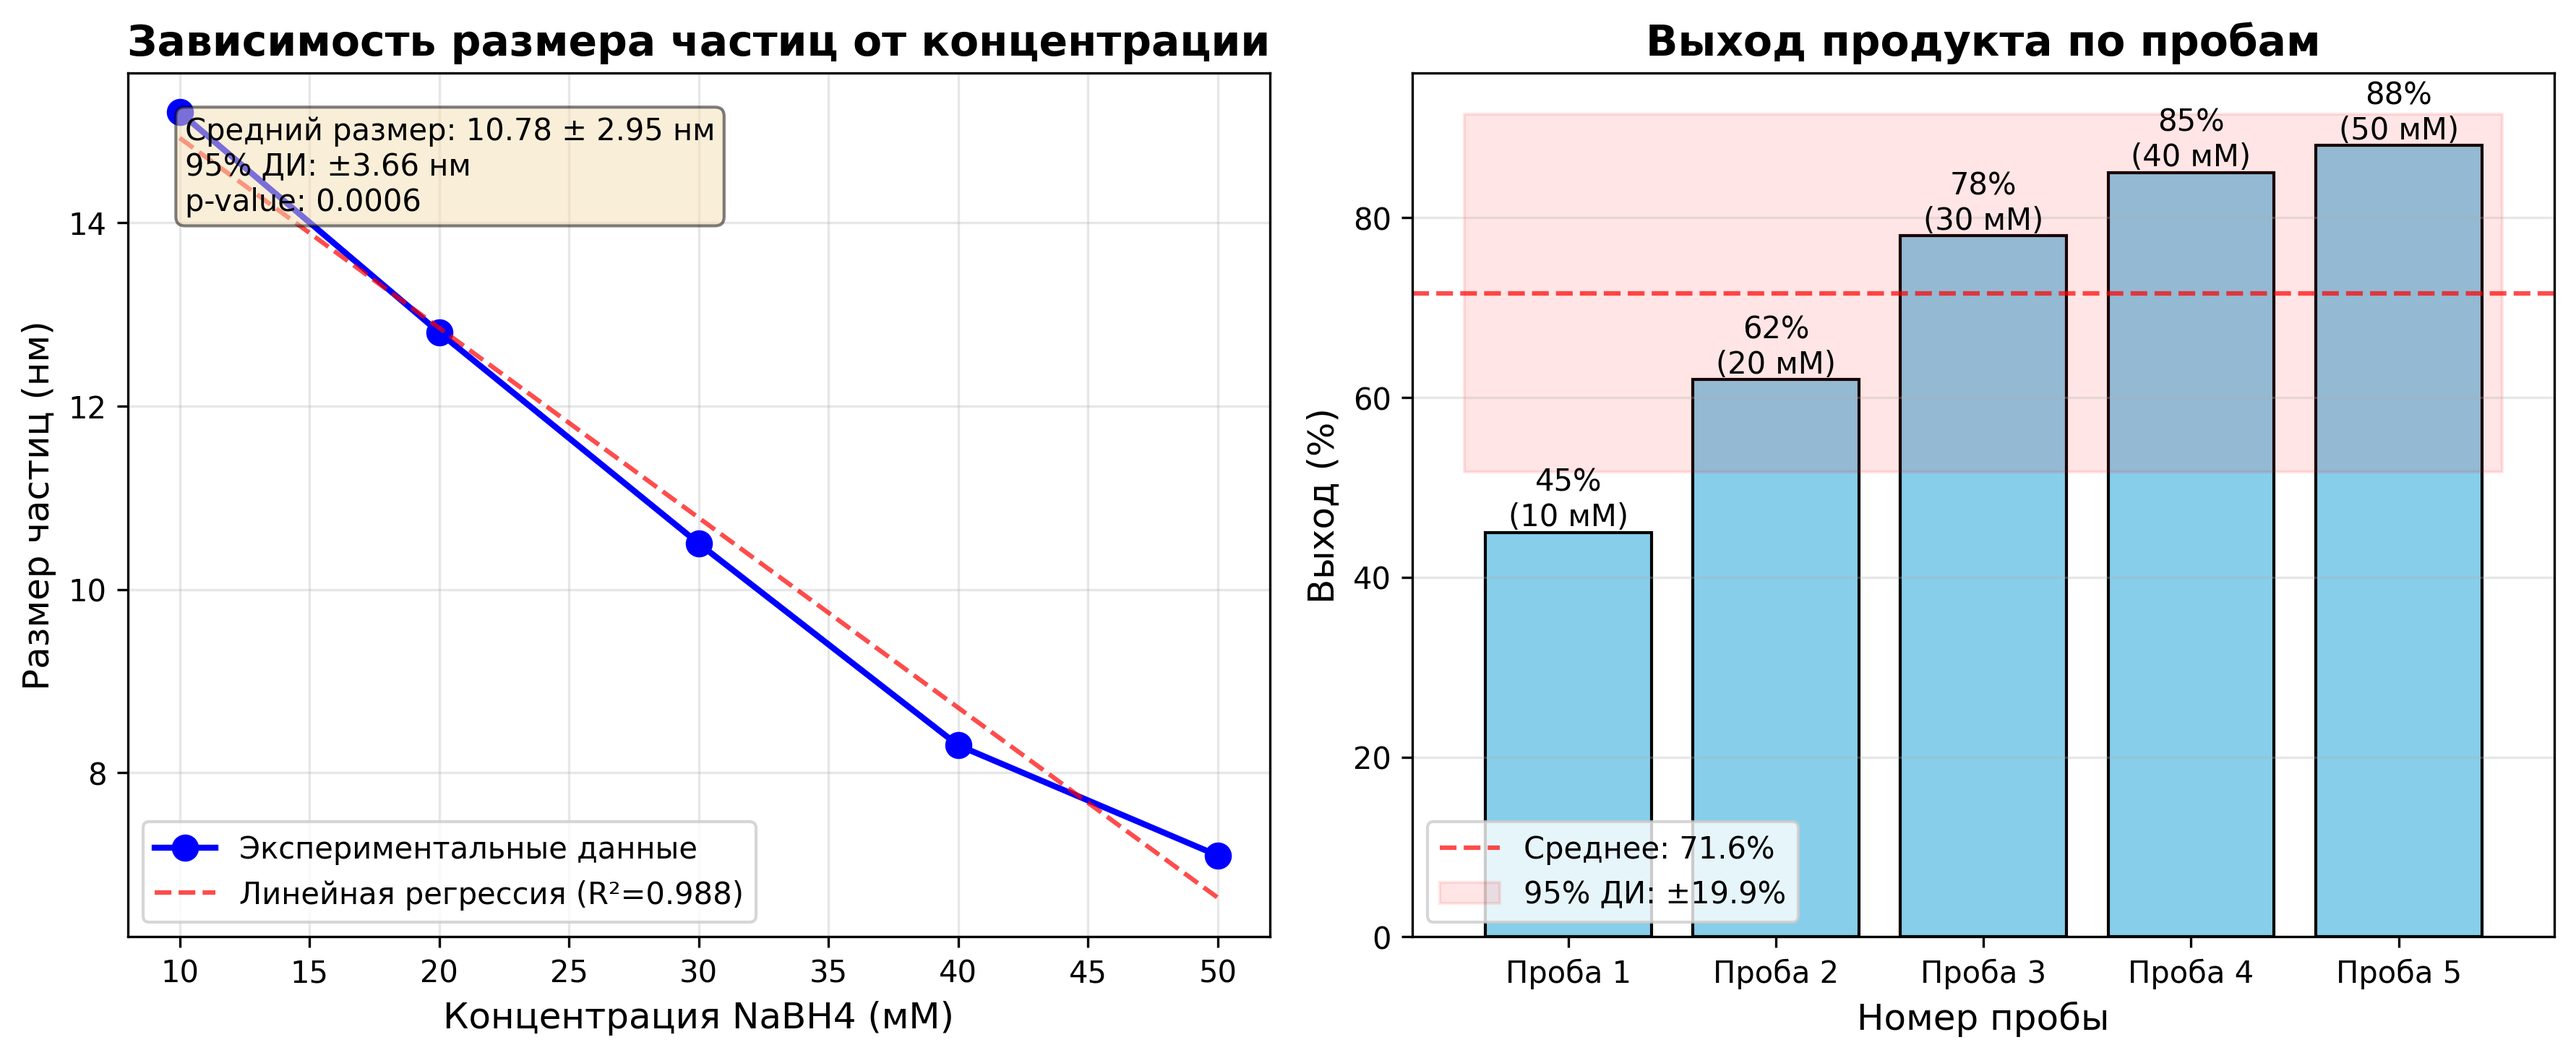
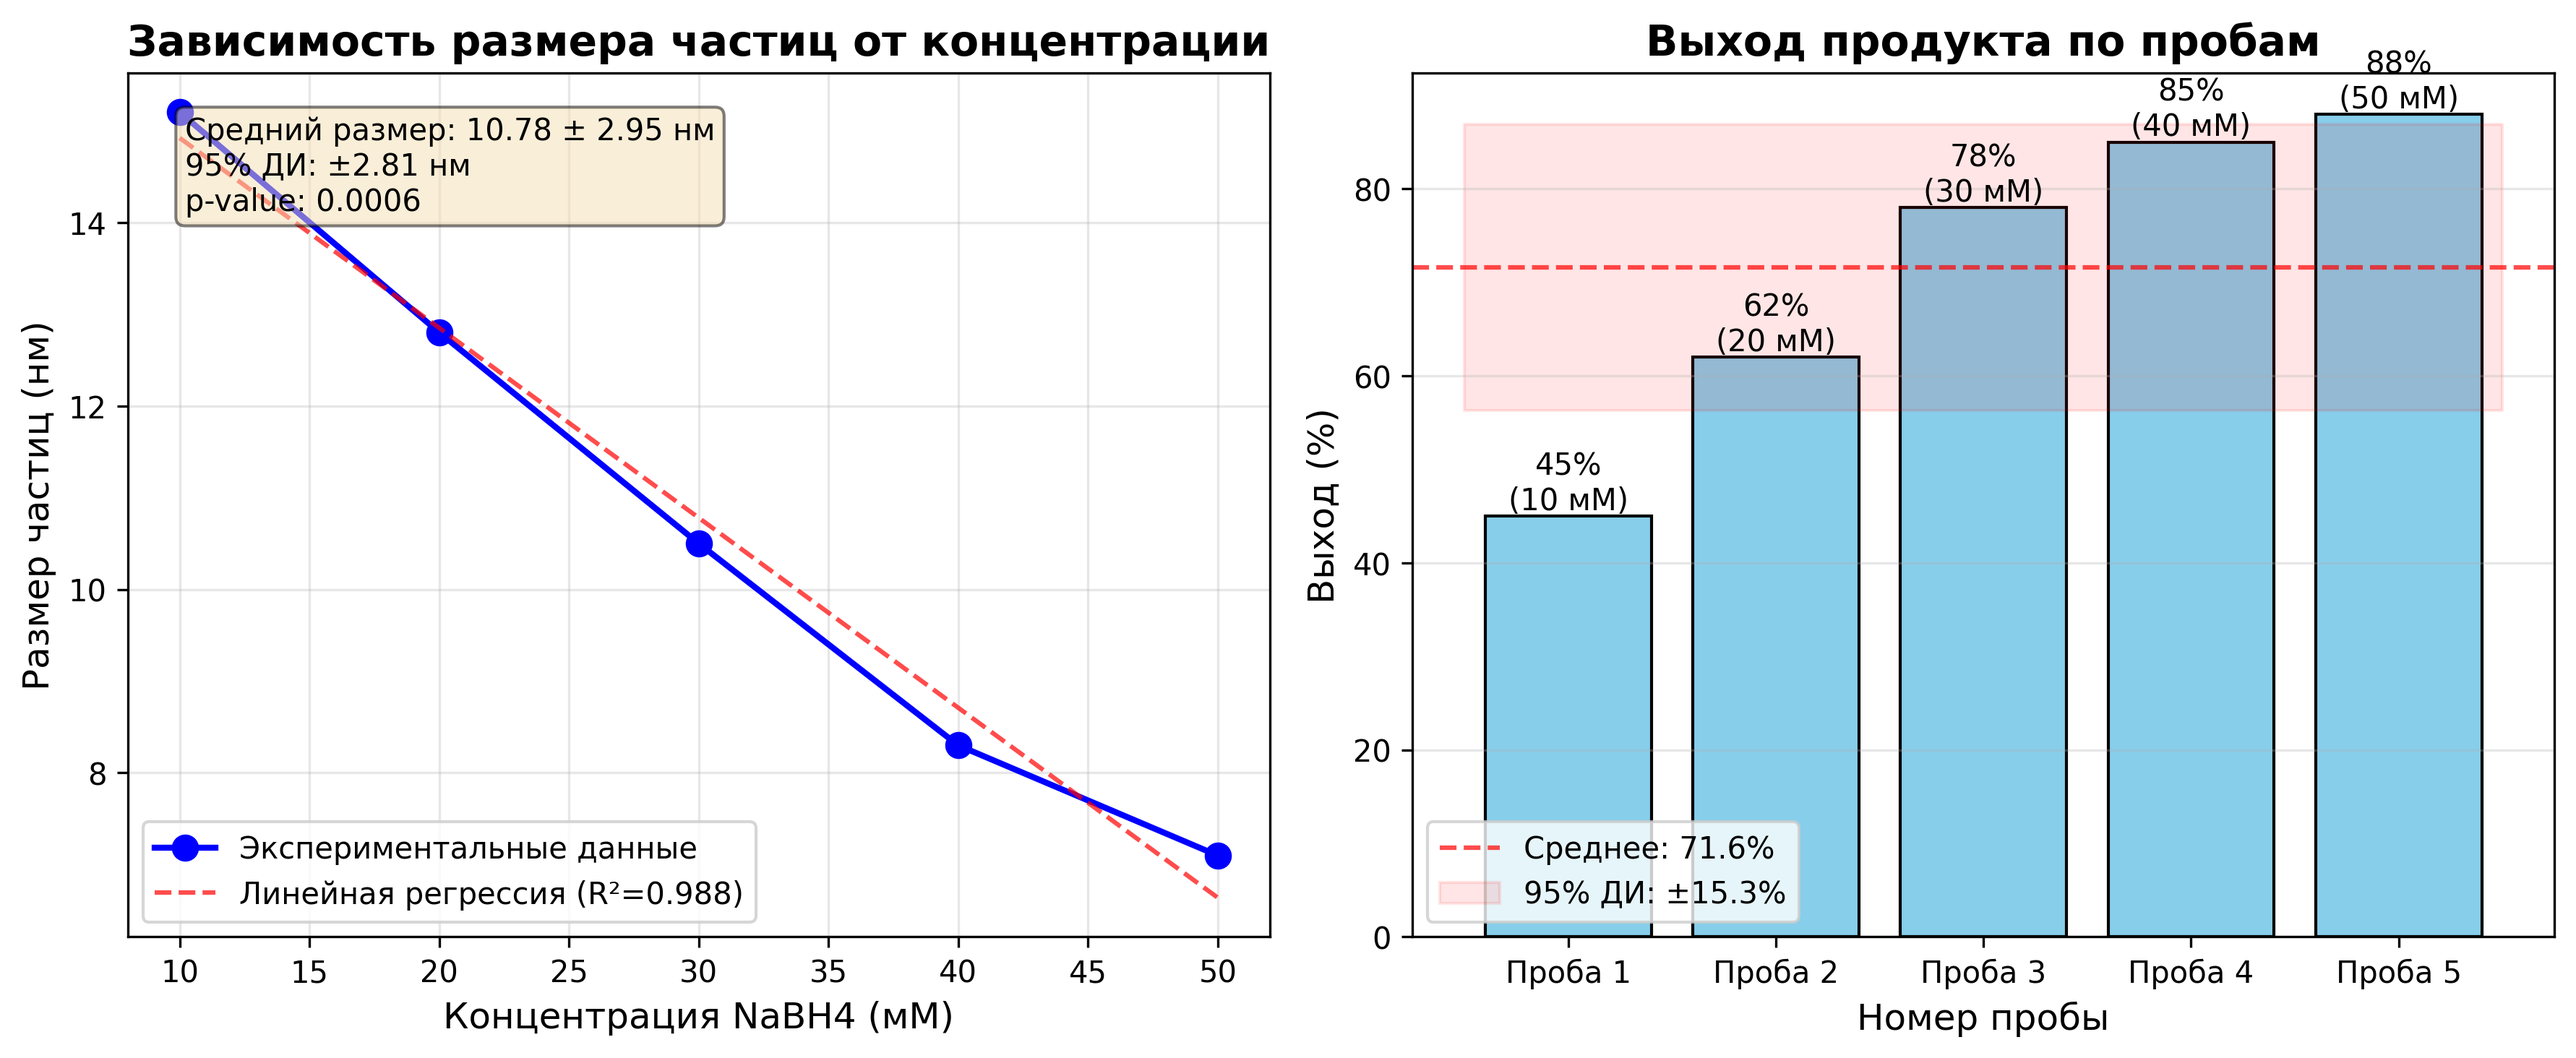
extend lab analysis to OR and change output format from txt -> md

diff --git a/3_8_advanced_prompting/labdataanalyzer_3.8.1.py b/3_8_advanced_prompting/labdataanalyzer_3.8.1.py
@@ -8,6 +8,7 @@ import matplotlib.pyplot as plt
 import numpy as np
 from scipy import stats
 import requests
+from decouple import config
 
 class LabDataAnalyzer:
     """Анализ лабораторных данных с визуализацией"""
@@ -40,7 +41,7 @@ class LabDataAnalyzer:
         """
         return raw_data
     
-    def query_llm(self, prompt):
+    def query_llm(self, prompt, conversation_history=None):
         """Запрос к LLM"""
         if self.llm_api == "ollama":
             response = requests.post(
@@ -49,8 +50,49 @@ class LabDataAnalyzer:
             )
             return response.json().get("response", "")
         else:
-            # Для простоты демо возвращаем заглушку
-            return "Ответ LLM: Данные проанализированы успешно."
+            OPENROUTER_KEY = config('OPENROUTER_API_KEY')
+            OPENROUTER_URL = "https://openrouter.ai/api/v1/chat/completions"
+            OPENROUTER_MODEL = "qwen/qwen3-coder-next"
+
+            """Запрос к OpenRouter с поддержкой контекста"""
+            try:
+                headers = {
+                    "Authorization": f"Bearer {OPENROUTER_KEY}",
+                    "Content-Type": "application/json"
+                }
+                
+                # Формируем историю сообщений
+                messages = []
+                if conversation_history:
+                    for i, msg in enumerate(conversation_history[-5:]):  # Последние 5
+                        role = "user" if i % 2 == 0 else "assistant"
+                        messages.append({"role": role, "content": msg})
+                
+                messages.append({"role": "user", "content": prompt})
+                
+                data = {
+                    "model": OPENROUTER_MODEL,
+                    "messages": messages,
+                    "temperature": 0.3
+                }
+                
+                response = requests.post(
+                    OPENROUTER_URL,
+                    headers=headers,
+                    json=data,
+                    timeout=60
+                )
+                
+                if response.status_code == 200:
+                    print(response.json()["choices"][0]["message"]["content"])
+                    print(response.status_code)
+                    return response.json()["choices"][0]["message"]["content"]
+                else:
+                    print(response.status_code)
+                return ""
+            except:
+                print(response.status_code)
+                return ""
     
     def structure_raw_data(self, raw_data):
         """Шаг 1: Структурирование сырых данных"""
@@ -140,7 +182,7 @@ class LabDataAnalyzer:
         
         # 95% доверительные интервалы
         n = len(sizes)
-        t_value = stats.t.ppf(0.975, n-1)  # t-критерий для 95% ДИ
+        t_value = stats.t.ppf(0.95, n-1)  # t-критерий для 95% ДИ
         
         size_ci = t_value * size_std / np.sqrt(n)
         yield_ci = t_value * yield_std / np.sqrt(n)
@@ -289,7 +331,7 @@ class LabDataAnalyzer:
         analysis_results, interpretation = self.analyze_data(structured_data)
         print(f"\n📊 Результаты анализа:")
         print(json.dumps(analysis_results, indent=2, ensure_ascii=False))
-        print(f"\n🤖 Интерпретация:\n{interpretation[:500]}...")
+        print(f"\n🤖 Интерпретация:\n{interpretation}")
         
         # Шаг 3: Визуализация
         fig = self.visualize_results(structured_data, analysis_results)
@@ -308,7 +350,7 @@ class LabDataAnalyzer:
         print("\n📝 Шаг 4: Генерация отчета...")
         
         prompt = f"""
-        Напиши краткий отчет об эксперименте.
+        Напиши краткий отчет об эксперименте в markdown. ГОСТ, 14 пт, 1,5 интервал
         
         Данные эксперимента: {json.dumps(structured_data, ensure_ascii=False)}
         Результаты анализа: {json.dumps(analysis, ensure_ascii=False)}
@@ -326,12 +368,12 @@ class LabDataAnalyzer:
         
         report = self.query_llm(prompt)
         
-        with open('experiment_report.txt', 'w', encoding='utf-8') as f:
+        with open('experiment_report.md', 'w', encoding='utf-8') as f:
             f.write("ОТЧЕТ ПО ЭКСПЕРИМЕНТУ\n")
             f.write("="*50 + "\n\n")
             f.write(report)
         
-        print("✓ Отчет сохранен как 'experiment_report.txt'")
+        print("✓ Отчет сохранен как 'experiment_report.md'")
         return report
 
 # Запуск демонстрации

diff --git a/3_8_advanced_prompting/experiment_report.md b/3_8_advanced_prompting/experiment_report.md
@@ -1,0 +1,33 @@
+ОТЧЕТ ПО ЭКСПЕРИМЕНТУ
+==================================================
+
+**Отчет эксперимента**  
+
+**1. Цель эксперимента**  
+Данный эксперимент посвящен синтезу наночастиц золота с использованием NaBH₄ (мМ) и pH-безопасного условия (7.2, 25°C) в качестве прекурсора.  
+
+**2. Методика**  
+Инвариантные переменные эксперимента:  
+- **Индивидуальные переменные**:  
+  - Концентрация NaBH₄ (мМ)  
+  - pH  
+- **Последовательные переменные**:  
+  - Выход (%)  
+
+**3. Результаты**  
+**Результаты анализа**  
+- **Статистические зависимости**:  
+  - Статистически значимые зависимости между концентрацией и размером наночастиц (R² = 0.988, p-value = 0.0006) и между концентрацией и выходом (R² = 0.922, p-value = 0.0095).  
+
+**4. Выводы**  
+1. **Статистически значимы ли зависимости?**  
+   Да, зависимости между концентрацией и размером наночастиц и выходом статистически значимы (p-значения < 0.05).  
+2. **Концентрация оптимальна?**  
+   Оптимальная концентрация в пределах зависимости от концентрации составляет ≈ 34.8%.  
+3. **Дальнейшие эксперименты**  
+   - Проверить влияние изменений температуры на размер и выход.  
+   - Провести эксперименты с увеличением концентрации до предыдущего максимального выхода.  
+   - Улучшить модель для предсказания выхода на более высокие концентрации.  
+
+**5. Рекомендации**  
+При работе с наночастицами золота, важно учитывать динамику концентрации и условия синтеза. Улучшение модели позволит повысить эффективность процесса.
